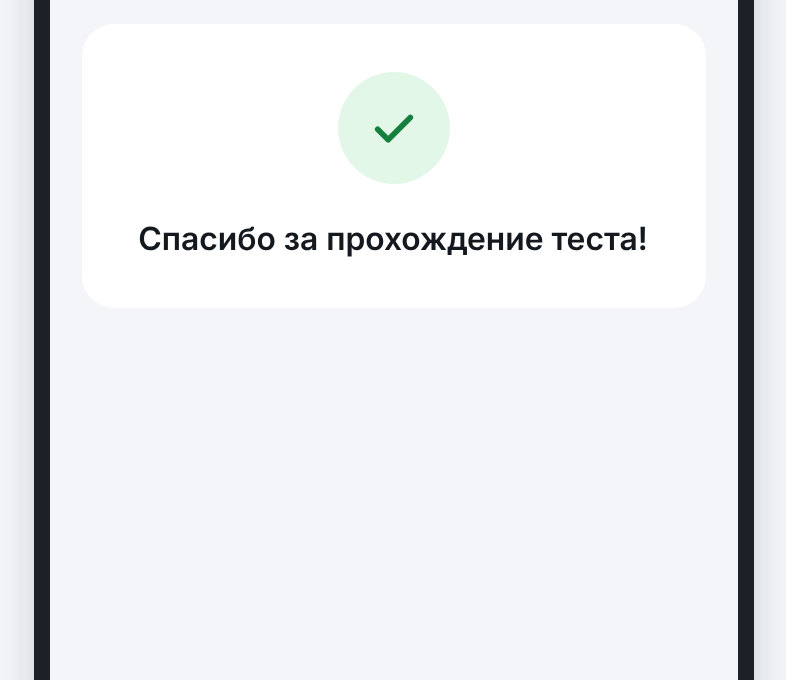
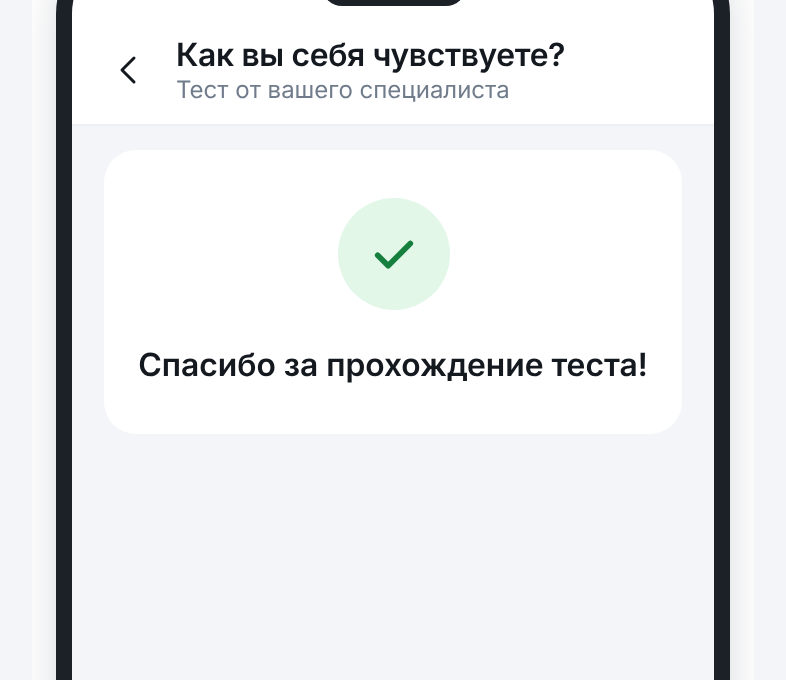
Настройки теста: без «Тем материала», предпросмотр встроен последним блоком; скриншоты подсказок обновлены
Claude-Session: https://claude.ai/code/session_01PkfaRYH7Rjk9UeiToMFzDy

diff --git a/src/components/TestSettings/TestPreview.tsx b/src/components/TestSettings/TestPreview.tsx
@@ -3,6 +3,7 @@ import type { LibraryTest } from '../../data/library';
 import type { ResultMode } from '../../data/resultMode';
 import type { TestBlankData } from '../../data/testBlank';
 import { ClientIntro, IconEye, IconEyeOff, testFacts } from './ClientParts';
+import { CollapseCard } from './TestBlank';
 import { FillMeter } from './PassParts';
 import { TestDone } from './TestDone';
 import { TestHeader } from './TestHeader';
@@ -28,16 +29,15 @@ interface TestPreviewProps {
   result: ResultMode;
   /** Время выполнения из описания теста («15–20 мин.») */
   duration?: string;
-  /** Свайп вправо на первом экране и стрелка «назад» */
-  onExit: () => void;
 }
 
 /**
- * Предпросмотр теста в рамке телефона: начало (сообщение, инструкция, число вопросов, время, кто увидит результат),
+ * Блок «Предпросмотр» внизу настроек теста: то, что увидит клиент, в рамке телефона. Меняете настройку выше — рамка меняется сразу.
+ * Внутри: начало (сообщение, инструкция, число вопросов, время, кто увидит результат),
  * вопрос с ответами и завершение. Внутри рамки тот же интерфейс, что у клиента и при прохождении самому.
  * Ответы здесь никуда не сохраняются. При слепом тестировании название и значок теста скрыты.
  */
-export function TestPreview({ test, blank, blind, message, result, duration, onExit }: TestPreviewProps) {
+export function TestPreview({ test, blank, blind, message, result, duration }: TestPreviewProps) {
   const [stage, setStage] = useState<Stage>('start');
   const [index, setIndex] = useState(0);
   const [dir, setDir] = useState<'next' | 'prev'>('next');
@@ -73,12 +73,12 @@ export function TestPreview({ test, blank, blind, message, result, duration, onE
     setStage(next);
   };
 
-  // Свайпы переключают этапы целиком, как вкладки «Начало / В процессе / Конец»; с первого этапа вправо — к настройкам
+  // Свайпы переключают этапы целиком, как вкладки «Начало / В процессе / Конец»; на первом этапе вправо — ничего (экран настроек остаётся на месте)
   const touch = useRef<{ x: number; y: number } | null>(null);
   const step = (way: 1 | -1) => {
     const order: Stage[] = ['start', 'progress', 'end'];
     const next = order.indexOf(stage) + way;
-    if (next < 0) return onExit();
+    if (next < 0) return;
     if (next < order.length) toStage(order[next]);
   };
   const onTouchStart = (e: TouchEvent) => {
@@ -97,7 +97,8 @@ export function TestPreview({ test, blank, blind, message, result, duration, onE
 
   return (
     <>
-      <div className="test-settings__scroll tp" onTouchStart={onTouchStart} onTouchEnd={onTouchEnd}>
+      <CollapseCard title="Предпросмотр" id="preview">
+      <div className="tp tp--inline" onTouchStart={onTouchStart} onTouchEnd={onTouchEnd}>
         <div className="tp__tabs" role="group" aria-label="Этап прохождения">
           {STAGES.map(({ id, label }) => (
             <button key={id} type="button" className={`tp__tab${stage === id ? ' tp__tab--on' : ''}`} aria-pressed={stage === id} onClick={() => toStage(id)}>
@@ -111,11 +112,11 @@ export function TestPreview({ test, blank, blind, message, result, duration, onE
           <span>{blind ? 'Слепое тестирование: название скрыто' : 'Клиент увидит название теста'}</span>
         </p>
 
-        <div className="tp__phone">
+        <div className="tp__phone" data-hscroll>
           <div className="tp__status" aria-hidden="true">
             <span className="tp__notch" />
           </div>
-          <TestHeader test={test} client={{ blind }} status="Тест от вашего специалиста" onBack={onExit} />
+          <TestHeader test={test} client={{ blind }} status="Тест от вашего специалиста" />
           <div className="test-settings__scroll tp__screen" key={stage} ref={screenRef}>
             {stage === 'start' && <ClientIntro message={message} rules={blank.rules} facts={testFacts(total, duration, result)} />}
             {stage === 'progress' && (
@@ -163,6 +164,7 @@ export function TestPreview({ test, blank, blind, message, result, duration, onE
           )}
         </div>
       </div>
+      </CollapseCard>
 
       {jumpOpen && (
         <JumpSheet

diff --git a/src/components/TestSettings/TestSettings.tsx b/src/components/TestSettings/TestSettings.tsx
@@ -38,14 +38,13 @@ const DESC_COLLAPSED = 6 * 22 + 12;
 type Svg = ComponentType<SVGProps<SVGSVGElement>>;
 
 /** Что показано под шапкой: настройки, бланк, пример заключения или прохождение теста */
-type View = 'settings' | 'blank' | 'conclusion' | 'pass' | 'preview';
+type View = 'settings' | 'blank' | 'conclusion' | 'pass';
 
 const STATUS: Record<View, string> = {
   settings: 'Настройка теста',
   blank: 'Бланк тестирования',
   conclusion: 'Пример заключения',
   pass: 'Прохождение теста',
-  preview: 'Предпросмотр теста',
 };
 
 interface TestSettingsProps {
@@ -332,8 +331,6 @@ export function TestSettings({ test, chatId, onBack }: TestSettingsProps) {
             }, 'forward');
           }}
         />
-      ) : view === 'preview' && blank ? (
-        <TestPreview test={test} blank={blank} blind={blind} message={messageOn ? message : ''} result={result} duration={data.duration} onExit={() => openView('settings')} />
       ) : view === 'conclusion' && conclusion ? (
         <div className="cc-wrap" key="conclusion">
           <ScrollHost className="test-settings__scroll">
@@ -523,22 +520,7 @@ export function TestSettings({ test, chatId, onBack }: TestSettingsProps) {
           </div>
         </section>
 
-        <TopicTags id={test.id} />
-
-        {blank && (
-          <ul className="ts-card">
-            <li
-              className="ts-row ts-row--link"
-              role="button"
-              tabIndex={0}
-              onClick={() => openView('preview')}
-              onKeyDown={(e) => e.key === 'Enter' && openView('preview')}
-            >
-              <span className="ts-row__link">Предпросмотр</span>
-              <IconTestChevron className="ts-row__chevron" />
-            </li>
-          </ul>
-        )}
+        {blank && <TestPreview test={test} blank={blank} blind={blind} message={messageOn ? message : ''} result={result} duration={data.duration} />}
       </div>
 
       <div className="test-settings__cta">

diff --git a/src/components/TestSettings/TestHeader.tsx b/src/components/TestSettings/TestHeader.tsx
@@ -13,7 +13,8 @@ interface TestHeaderProps {
   kind?: 'test' | 'task';
   /** Что открыто под шапкой: «Настройка теста», «Бланк тестирования», «Результат тестирования»… */
   status: string;
-  onBack: () => void;
+  /** Без обработчика кнопка «Назад» неактивна: так в рамке телефона в предпросмотре */
+  onBack?: () => void;
   /**
    * Шапка клиента (тест или задание, присланное специалистом, и предпросмотр): те же значок, название и раздел,
    * но без «избранного» — это библиотека специалиста. Слепой тест клиенту не называют: значка нет, название нейтральное.
@@ -30,7 +31,7 @@ export function TestHeader({ test, kind = 'test', status, onBack, client }: Test
   const hidden = Boolean(client?.blind);
   return (
     <header className="test-settings__header">
-      <button type="button" className="test-settings__button" aria-label="Назад" onClick={onBack}>
+      <button type="button" className="test-settings__button" aria-label="Назад" disabled={!onBack} onClick={onBack}>
         <IconBack />
       </button>
       <div className="test-settings__peer">

diff --git a/src/data/optionHelp.ts b/src/data/optionHelp.ts
@@ -51,14 +51,14 @@ export const OPTION_HELP: Record<OptionHelpId, OptionHelp> = {
         alt: 'Экран клиента: в шапке значок и полное название теста',
         title: 'Обычный тест',
         text: 'Клиент видит значок и название методики — он может догадаться, что именно желает проверить специалист.',
-        mark: { x: 18.45, y: 48.09, w: 74.3, h: 12.94 },
+        mark: { x: 21.37, y: 66.03, w: 68.45, h: 12.94 },
       },
       {
         src: blindOn,
         alt: 'Экран клиента: в шапке вместо названия вопрос «Как вы себя чувствуете?»',
         title: 'Слепое тестирование',
         text: 'Значок и название методики скрываются для клиента — иногда, когда не знаешь, что выполняешь, ответы честнее.',
-        mark: { x: 18.45, y: 48.09, w: 74.3, h: 12.94 },
+        mark: { x: 21.37, y: 66.03, w: 68.45, h: 12.94 },
       },
       {
         src: blindChat,

diff --git a/src/components/TestSettings/TestPreview.css b/src/components/TestSettings/TestPreview.css
@@ -1,7 +1,20 @@
 /* Предпросмотр теста и задания: этапы, плашка над рамкой и рамка телефона с экраном клиента.
    Внутри рамки тот же интерфейс, что при прохождении самому: шапка, карточки на сером, полоса со счётчиком и кнопками */
 .tp {
+  display: flex;
+  flex-direction: column;
   gap: var(--space-3);
+}
+
+/* Блок внутри настроек: поля 12, рамка телефона фиксированной высоты (страница настроек прокручивается, экран внутри рамки — отдельно) */
+.tp--inline {
+  padding: var(--space-3);
+}
+
+.tp--inline .tp__phone {
+  flex: none;
+  height: 600px;
+  margin-top: 0;
 }
 
 /* Три этапа в одной плашке: выбранный белый на сером */

diff --git a/scripts/help-shots.py b/scripts/help-shots.py
@@ -3,7 +3,7 @@
 Скриншоты для подсказок к настройкам теста (src/assets/help/*.webp, данные — src/data/optionHelp.ts).
 
 Снимает приложение в рамке телефона 393 px при плотности 2 и вырезает кадр 393×340 (786×680 пикселей):
-  blind-off, blind-on, blind-chat — «Слепое тестирование»: предпросмотр без слепого режима и с ним, пометка в чате;
+  blind-off, blind-on, blind-chat — «Слепое тестирование»: блок «Предпросмотр» без слепого режима и с ним, пометка в чате;
   blank-off, blank-on, blank-view — «Сохранить заполненный бланк»: результат без бланка и с ним, сам бланк;
   result-thanks, result-score, result-full — «Итог для клиента»: экран завершения у клиента при каждом из трёх вариантов.
 Кроме картинок печатает рамки (x, y, w, h в процентах кадра): их нужно перенести в `mark` слайдов в optionHelp.ts.
@@ -56,6 +56,11 @@ class Phone:
         self.tab('Диагностика')
         self.page.locator(TOP).get_by_text(SMOL, exact=True).first.click()
         self.wait(1000)
+
+    def show_preview(self):
+        """Блок «Предпросмотр» внизу настроек теста прокручен к верхнему краю экрана"""
+        self.page.evaluate("document.querySelector('#preview').scrollIntoView({block: 'start'})")
+        self.wait(900)
 
     def send(self, recipient):
         page = self.page
@@ -133,15 +138,14 @@ def main():
 
     with sync_playwright() as p:
         if want('blind'):
-            # Слепое тестирование: предпросмотр клиентского экрана без слепого режима и с ним (кадр под шапкой, с y = 56)
+            # Слепое тестирование: блок «Предпросмотр» в настройках без слепого режима и с ним (кадр под шапкой, с y = 56)
             for blind in (False, True):
                 phone = Phone(p, args.base)
                 phone.open_smol()
                 if not blind:
                     phone.page.get_by_role('switch', name='Слепое тестирование').click()
                     phone.wait(300)
-                phone.page.locator(TOP).get_by_text('Предпросмотр', exact=True).first.click()
-                phone.wait(1000)
+                phone.show_preview()
                 title = phone.rect(f'{TOP} .tp__phone .test-settings__peer', pad=4)
                 shots.take(phone, 'blind-on' if blind else 'blind-off', 56, title)
                 phone.close()
@@ -183,7 +187,7 @@ def main():
                 phone.close()
 
         if want('result'):
-            # Итог для клиента: предпросмотр, этап «Конец» (кадр с карточки «Спасибо», с y = 270; рамок нет)
+            # Итог для клиента: блок «Предпросмотр», этап «Конец» (кадр с y = 268; рамок нет)
             for name, mode in (('result-thanks', 'Только благодарность'), ('result-score', 'Только баллы'), ('result-full', 'Полное заключение')):
                 phone = Phone(p, args.base)
                 phone.open_smol()
@@ -191,13 +195,11 @@ def main():
                 row.scroll_into_view_if_needed()
                 row.click()
                 phone.wait(300)
-                preview = phone.page.locator(TOP).get_by_text('Предпросмотр', exact=True).first
-                preview.scroll_into_view_if_needed()
-                preview.click()
-                phone.wait(900)
+                phone.show_preview()
                 phone.page.get_by_role('button', name='Конец').click()
                 phone.wait(900)
-                shots.take(phone, name, 270)
+                phone.page.evaluate("document.querySelector('#preview').scrollIntoView({block: 'start'})")
+                shots.take(phone, name, 268)
                 phone.close()
 
     print('Рамки для optionHelp.ts (mark):')
